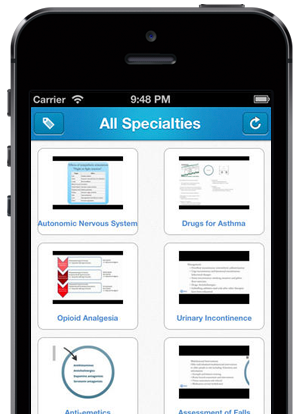
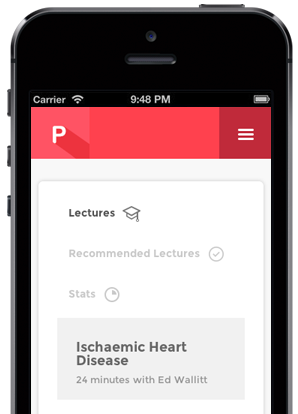
Updated homepage images, dashboard & responsive updates

Changed region(s): [[0.0906, 0.2609, 0.9362, 0.7826], [0.1208, 0.8116, 0.8456, 1.0]]

diff --git a/app/assets/stylesheets/users.css.scss b/app/assets/stylesheets/users.css.scss
@@ -228,9 +228,24 @@ ul[data-pie-id] {
 .dashboard_count_block.pass_count_green p {
   color: #ACF5B9;
 }
+.sub_heading_dashboard_info {
+  float: right;
+  text-align: right;
+}
+.sub_heading_dashboard_info p {
+  float: right;
+  text-align: right;
+  padding-bottom: 4px;
+  padding-top: 0px;
+  font-size: 12px;
+  text-transform: uppercase;
+}
 
+.sub_heading_dashboard_info p:last-child {
+  padding-bottom: 0px;
+  padding-top: 0px;
 
-
+}
 
 /* Modals */
 .reveal-modal-bg {

diff --git a/app/assets/stylesheets/responsive.css.scss b/app/assets/stylesheets/responsive.css.scss
@@ -455,8 +455,20 @@ $standard_border_radius: 6px;
   .sub_heading_wrapper .sub_heading_button_set {
     float: left;
     clear: both;
-    margin-top: 15px; }
+    margin-top: 15px;
+  }
+  .sub_heading_dashboard_info {
+    float: left;
+    text-align: left;
+    display: none;
 
+  }
+
+  .sub_heading_dashboard_info p {
+    float: left;
+    text-align: left;
+
+  }
   .inner_page_padding {
     display: block;
     padding: 0 25px; }
